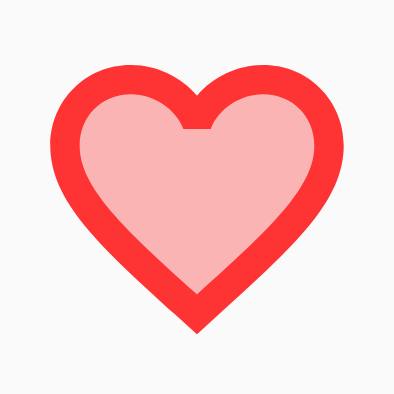
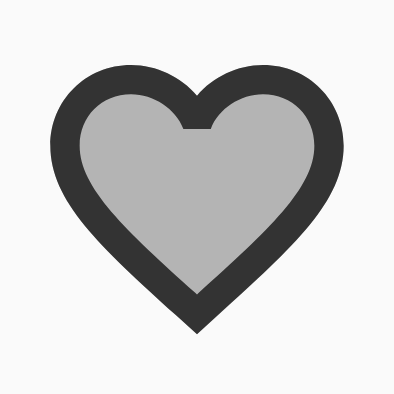
Updated test case and screenshots

diff --git a/app/src/androidTest/java/com/alexzh/coffeedrinks/ui/component/FavouriteTest.kt b/app/src/androidTest/java/com/alexzh/coffeedrinks/ui/component/FavouriteTest.kt
@@ -37,7 +37,7 @@ class FavouriteTest : ScreenshotTest {
                     state = state,
                     modifier = Modifier.size(150.dp),
                     onValueChanged = { },
-                    tint = Color.Red
+                    tint = Color.Black
                 )
             }
 
